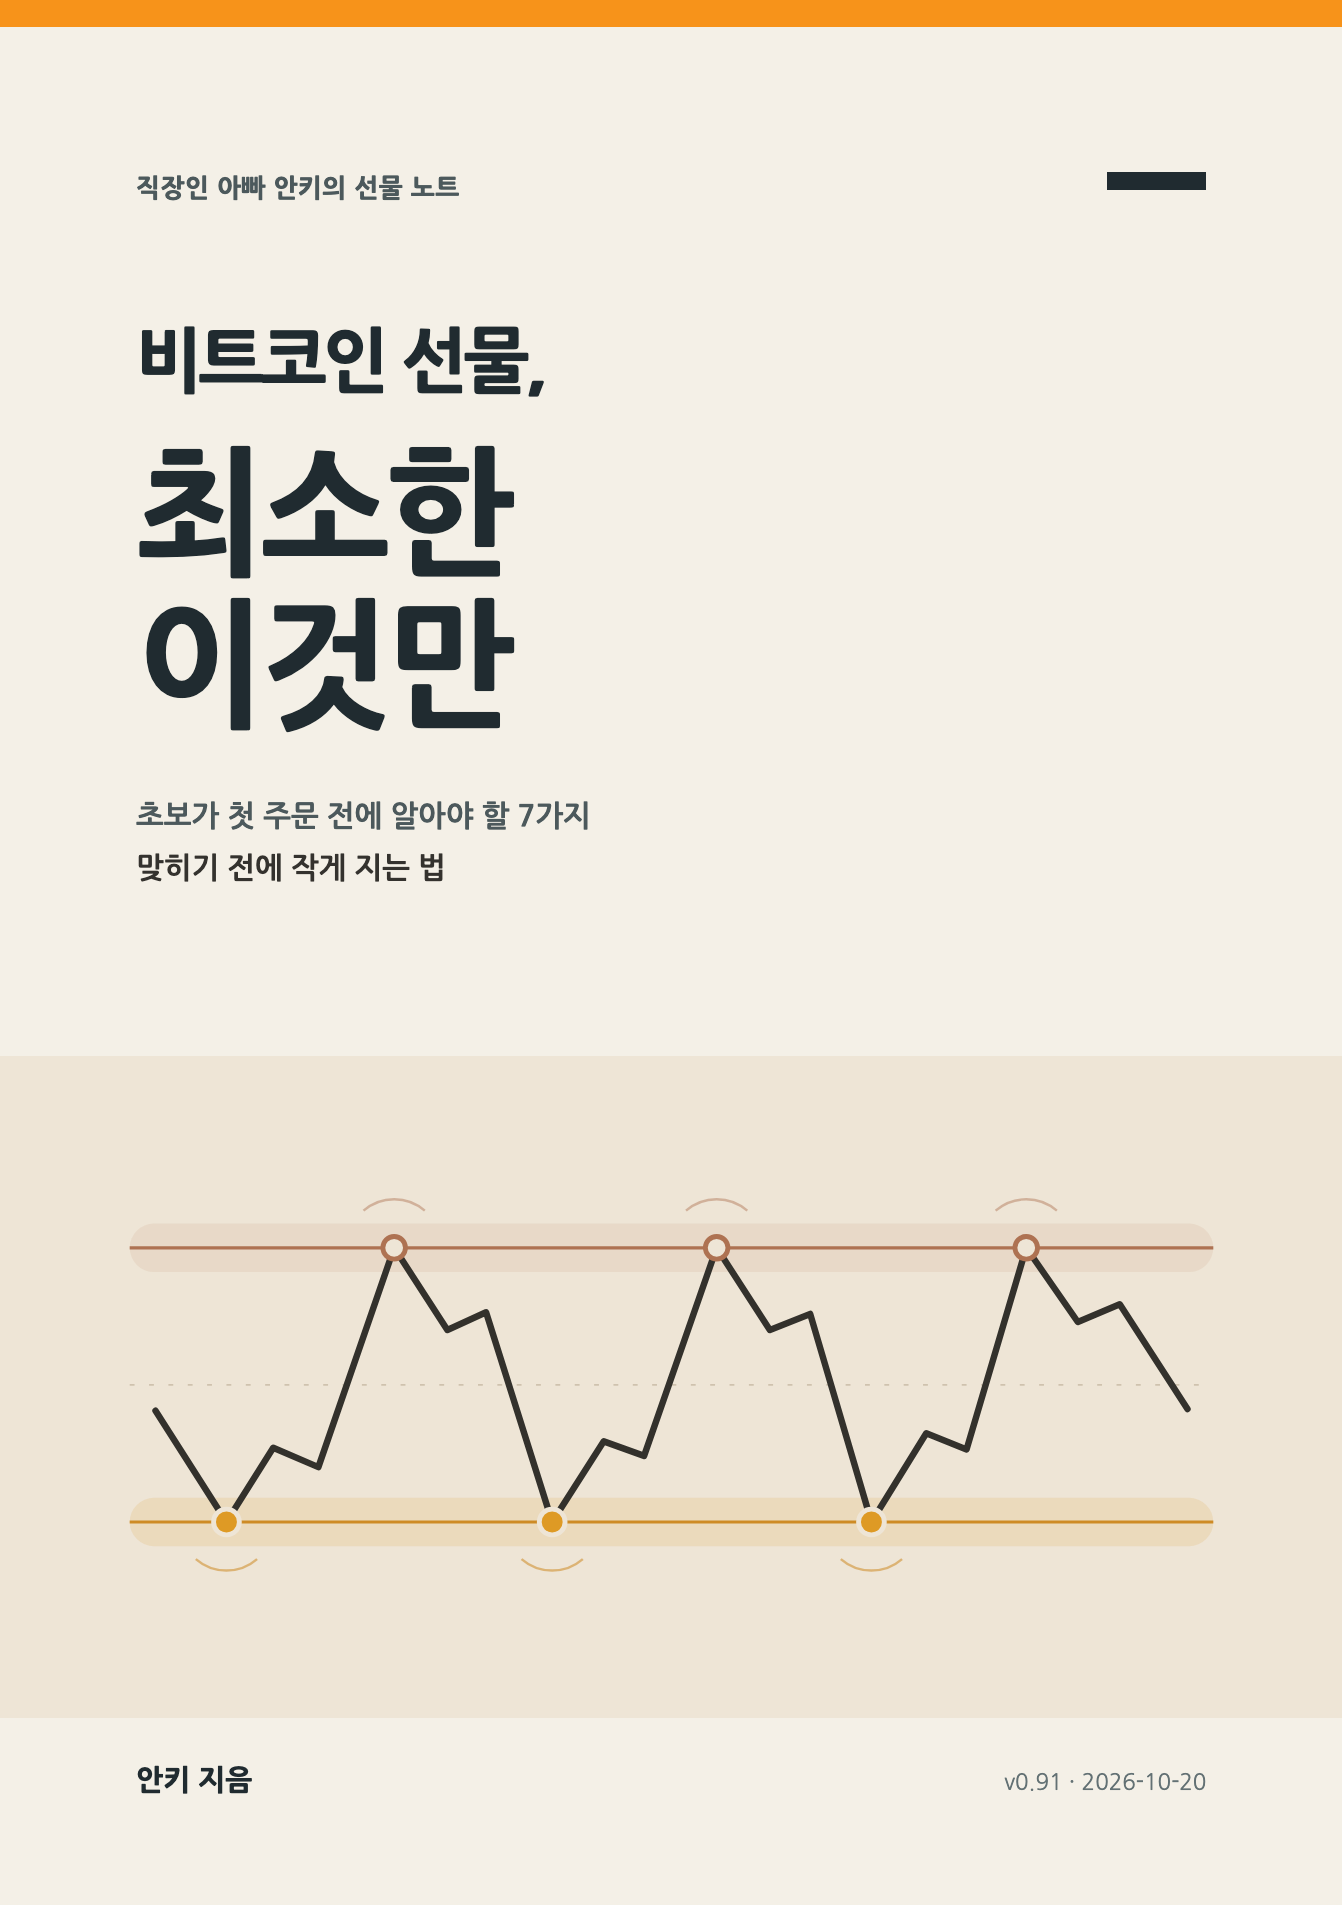
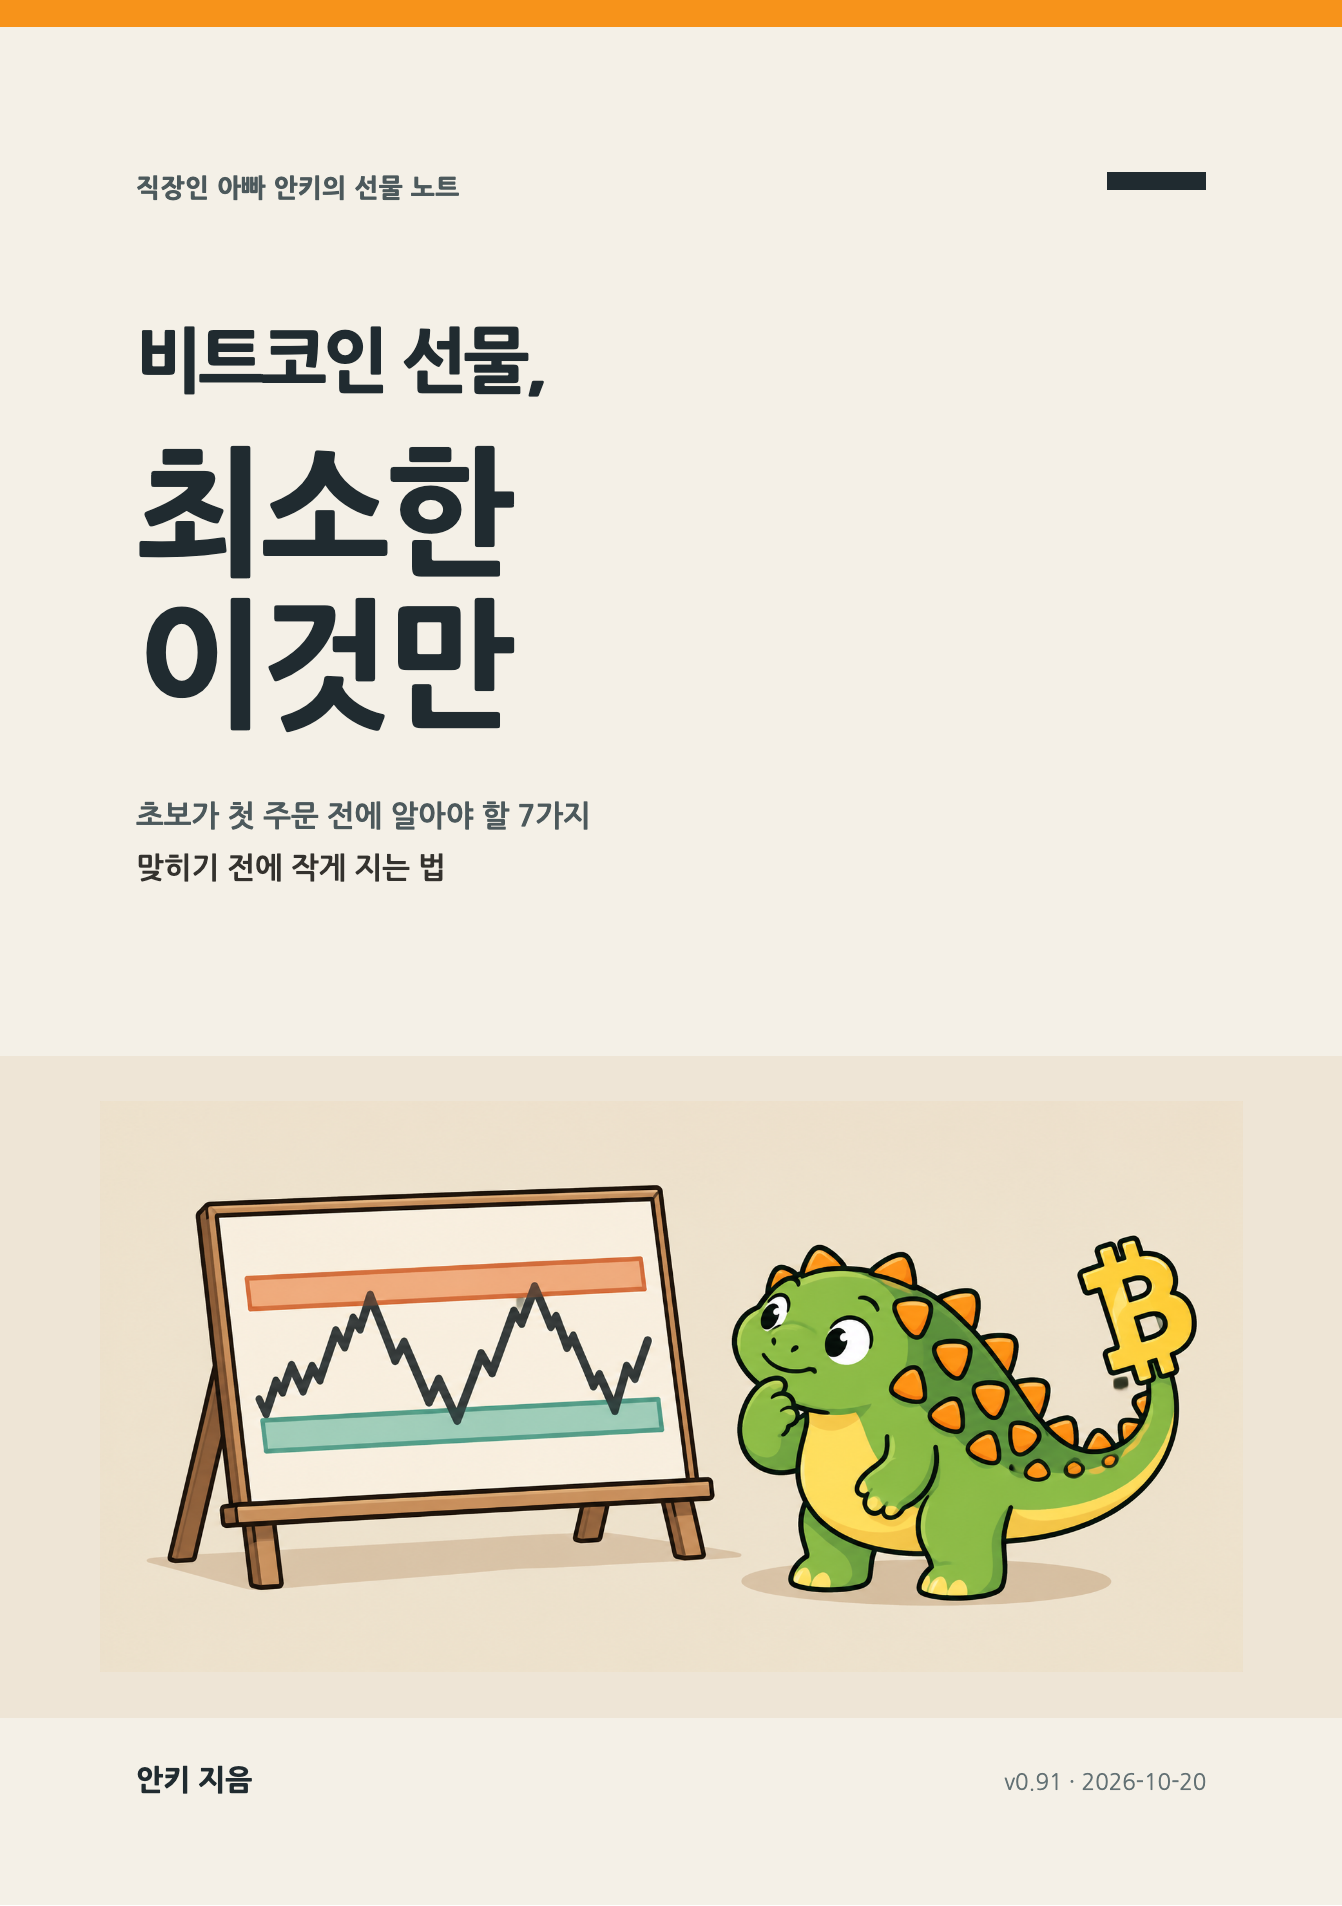
v0.91 갱신: 새 도해·부 표지 그림·표지 반영

Changed region(s): [[0.1222, 0.6191, 0.9165, 0.8667]]

diff --git a/index.html b/index.html
@@ -46,8 +46,8 @@ a { color:var(--brand); }
     <p class="sub">초보가 첫 주문 전에 알아야 할 7가지 — 맞히기 전에 작게 지는 법</p>
     <div class="btns">
       <a class="btn primary" href="read/">웹에서 바로 읽기</a>
-      <a class="btn" href="https://github.com/anki-coin/btc-futures-minimum/releases/latest/download/btc-futures-minimum.pdf">PDF 받기 <span class="size">7MB · A5</span></a>
-      <a class="btn" href="https://github.com/anki-coin/btc-futures-minimum/releases/latest/download/btc-futures-minimum.epub">EPUB 받기 <span class="size">6MB</span></a>
+      <a class="btn" href="https://github.com/anki-coin/btc-futures-minimum/releases/latest/download/btc-futures-minimum.pdf">PDF 받기 <span class="size">9MB · A5</span></a>
+      <a class="btn" href="https://github.com/anki-coin/btc-futures-minimum/releases/latest/download/btc-futures-minimum.epub">EPUB 받기 <span class="size">7MB</span></a>
     </div>
   </div>
 </div>
